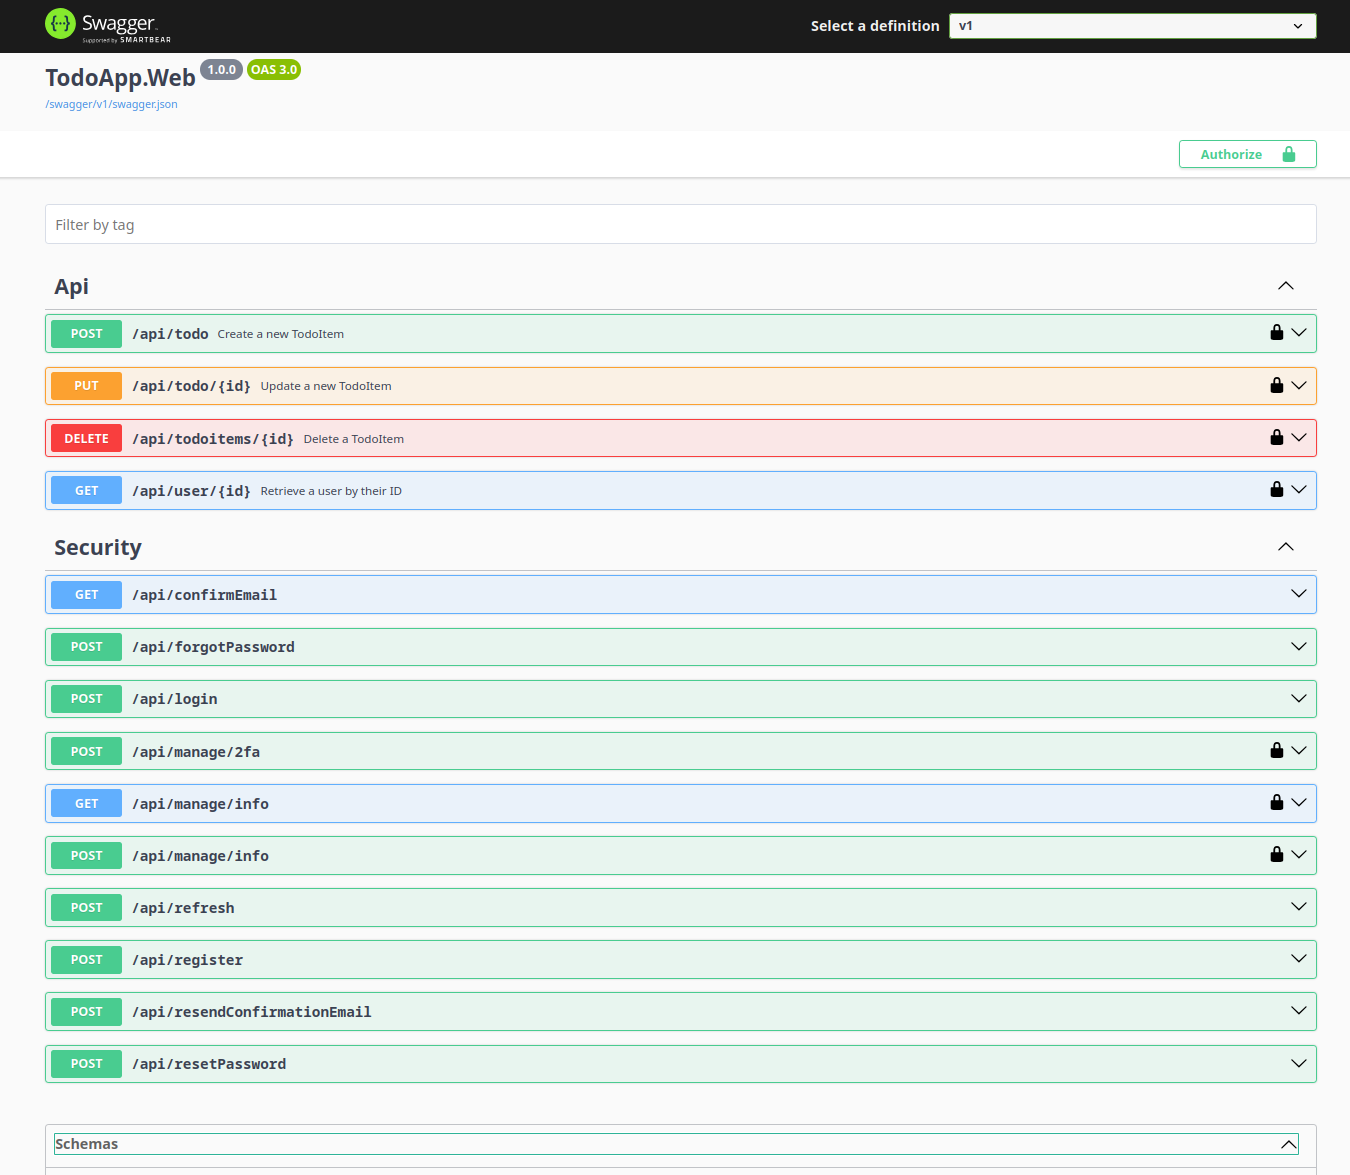
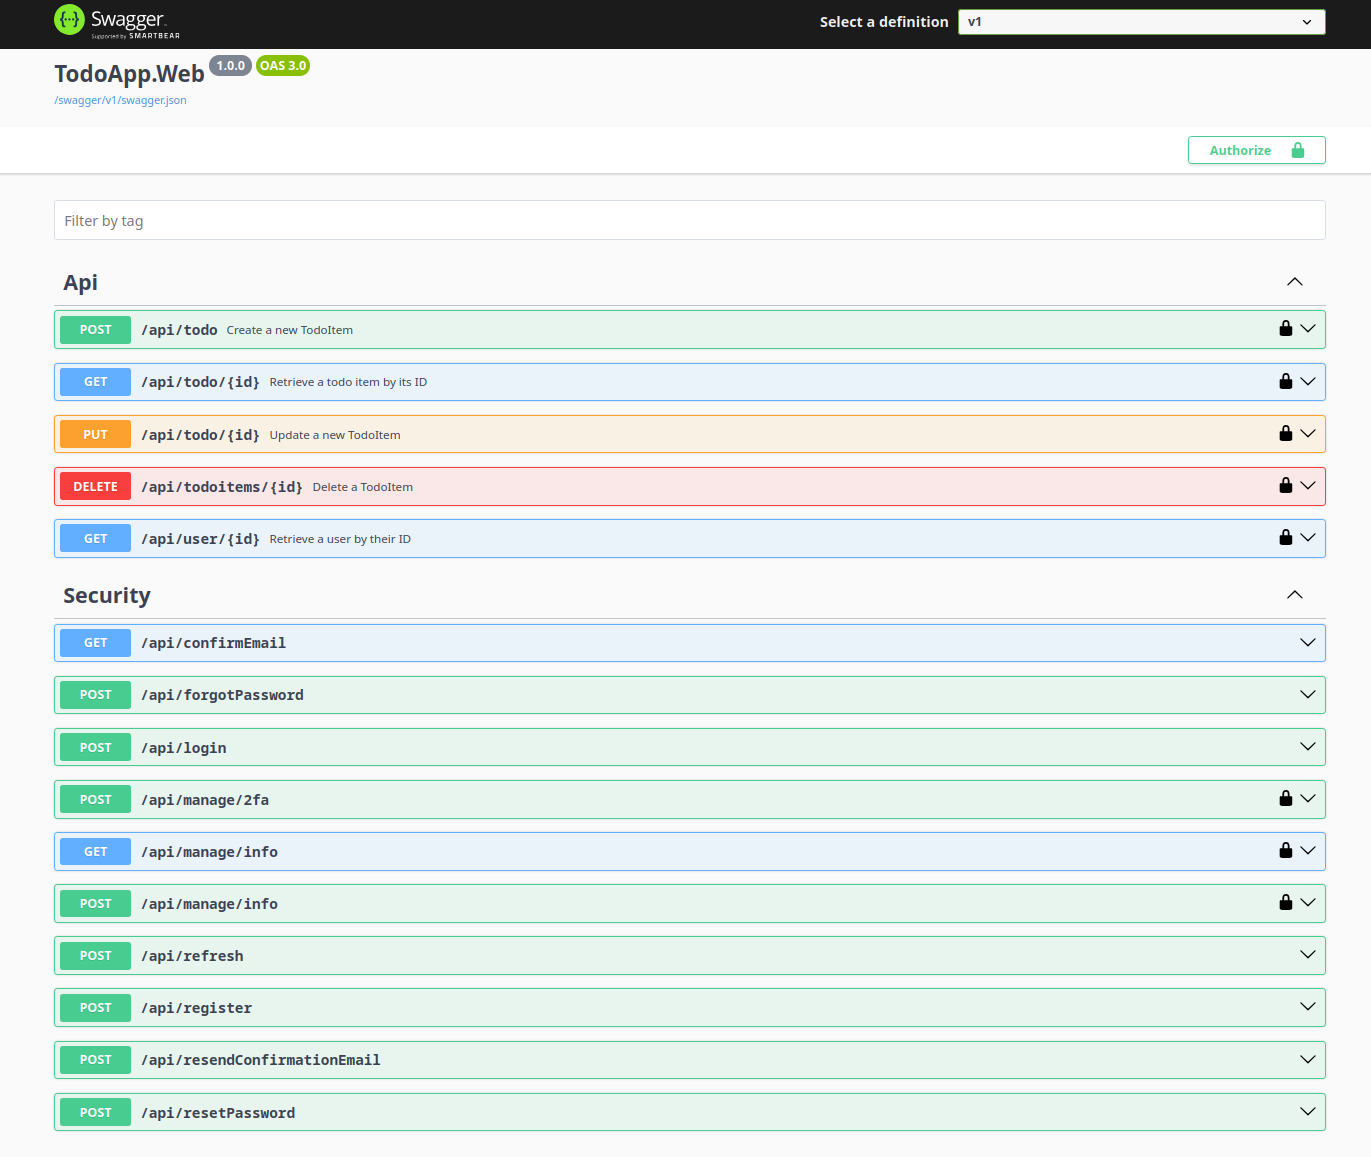
Added GetTodoItemById endpoint

Changed region(s): [[0.0311, 0.1867, 0.9644, 0.9957], [0.0, 0.0, 1.0, 0.0933], [0.8711, 0.1245, 0.9644, 0.1556]]

diff --git a/TodoApp.Web/Endpoints/TodoItems/GetTodoItemByIdEndpoint.cs b/TodoApp.Web/Endpoints/TodoItems/GetTodoItemByIdEndpoint.cs
@@ -1,0 +1,56 @@
+using FastEndpoints;
+using TodoApp.UseCases.DTOs;
+using TodoApp.Core.Entities;
+using Microsoft.AspNetCore.Identity;
+using TodoApp.UseCases.Interfaces;
+
+namespace TodoApp.Web.Endpoints.TodoItems;
+
+public class GetTodoItemByIdEndpoint : Endpoint<GetTodoItemByIdDTO, GetTodoItemByIdResponseDTO>
+{
+    private readonly ITodoItemRepository _todoItemRepository;
+    private readonly ILogger<GetTodoItemByIdEndpoint> _logger;
+
+    public GetTodoItemByIdEndpoint(ITodoItemRepository todoItemRepository, ILogger<GetTodoItemByIdEndpoint> logger)
+    {
+        _todoItemRepository = todoItemRepository;
+        _logger = logger;
+    }
+
+    public override void Configure()
+    {
+        Get("/api/todo/{@id}", r => new { r.Id });
+
+        Description(b => b.Produces(403));
+        Summary(s =>
+        {
+            s.Summary = "Retrieve a todo item by its ID";
+            s.Description = "The endpoint retrieves a todo item by its ID from the database";
+            s.ExampleRequest = new GetTodoItemByIdDTO
+            {
+                Id = 123,
+            };
+            s.ResponseExamples[200] = new GetTodoItemByIdResponseDTO
+            {
+                Id = 123,
+                Title = "Example Todo Item",
+                Description = "This is an example todo item",
+                IsCompleted = false
+            };
+        });
+    }
+
+    public override async Task HandleAsync(GetTodoItemByIdDTO req, CancellationToken ct)
+    {
+        var todoItem = await _todoItemRepository.GetByIdAsync(req);
+
+        if (todoItem == null)
+        {
+            AddError("Todo item not found");
+            await SendErrorsAsync(StatusCodes.Status404NotFound, ct);
+            return;
+        }
+
+        await SendAsync(todoItem, StatusCodes.Status200OK, ct);
+    }
+}

diff --git a/TodoApp.UseCases/Mappings/TodoItemMapping.cs b/TodoApp.UseCases/Mappings/TodoItemMapping.cs
@@ -8,14 +8,23 @@ public class TodoItemMapping : Profile
 {
     public TodoItemMapping()
     {
-        CreateMap<TodoItem, UpdateTodoItemDTO>();
-        CreateMap<TodoItem, CreateTodoItemResponseDTO>();
+        // Create
         CreateMap<TodoItem, CreateTodoItemDTO>();
-
-        CreateMap<CreateTodoItemResponseDTO, TodoItem>();
-        CreateMap<UpdateTodoItemDTO, TodoItem>();
         CreateMap<CreateTodoItemDTO, TodoItem>();
+        CreateMap<CreateTodoItemDTO, CreateTodoItemResponseDTO>();
+        CreateMap<CreateTodoItemResponseDTO, CreateTodoItemDTO>();
 
+        // Read
+        CreateMap<TodoItem, GetTodoItemByIdDTO>();
+        CreateMap<TodoItem, GetTodoItemByIdResponseDTO>(); // Add this mapping
+
+        CreateMap<GetTodoItemByIdDTO, TodoItem>();
+        CreateMap<GetTodoItemByIdDTO, GetTodoItemByIdResponseDTO>();
+        CreateMap<GetTodoItemByIdResponseDTO, GetTodoItemByIdDTO>();
+
+        // Update
+        CreateMap<TodoItem, UpdateTodoItemDTO>();
+        CreateMap<UpdateTodoItemDTO, TodoItem>();
         CreateMap<UpdateTodoItemDTO, UpdateTodoItemResponseDTO>();
         CreateMap<UpdateTodoItemResponseDTO, UpdateTodoItemDTO>();
 

diff --git a/TodoApp.Web/Endpoints/TodoItems/UpdateTodoItemEndpoint.cs b/TodoApp.Web/Endpoints/TodoItems/UpdateTodoItemEndpoint.cs
@@ -67,7 +67,8 @@ public class UpdateTodoItemEndpoint : Endpoint<UpdateTodoItemDTO, UpdateTodoItem
         }
 
         // Get the TodoItem by the ID
-        var todoItem = await _todoItemService.GetTodoItemByIdAsync(request.Id);
+        var todoItemDTO = new GetTodoItemByIdDTO { Id = request.Id };
+        var todoItem = await _todoItemService.GetTodoItemByIdAsync(todoItemDTO);
 
         _logger.LogInformation("TodoItem found: {0}", todoItem?.Id);
 
@@ -78,7 +79,7 @@ public class UpdateTodoItemEndpoint : Endpoint<UpdateTodoItemDTO, UpdateTodoItem
             return;
         }
 
-        // Update a the TodoItem
+        // Update the TodoItem
         var updatedTodoItem = new UpdateTodoItemDTO
         {
             Id = todoItem.Id,

diff --git a/TodoApp.Infrastructure/Repositories/TodoItemRepository.cs b/TodoApp.Infrastructure/Repositories/TodoItemRepository.cs
@@ -18,9 +18,15 @@ public class TodoItemRepository : ITodoItemRepository
         _mapper = mapper;
     }
 
-    public async Task<TodoItem?> GetByIdAsync(int id)
+    public async Task<GetTodoItemByIdResponseDTO?> GetByIdAsync(GetTodoItemByIdDTO item)
     {
-        return await _context.TodoItems.FindAsync(id);
+        var todoItem = await _context.TodoItems.FindAsync(item.Id);
+        if (todoItem == null)
+        {
+            return null;
+        }
+
+        return _mapper.Map<GetTodoItemByIdResponseDTO>(todoItem);
     }
 
     public async Task<IEnumerable<TodoItem>> GetAllAsync()

diff --git a/TodoApp.UseCases/Services/TodoItemService.cs b/TodoApp.UseCases/Services/TodoItemService.cs
@@ -23,9 +23,9 @@ public class TodoItemService
         return await _todoItemRepository.GetAllAsync();
     }
 
-    public async Task<TodoItem> GetTodoItemByIdAsync(int id)
+    public async Task<GetTodoItemByIdResponseDTO?> GetTodoItemByIdAsync(GetTodoItemByIdDTO todoItem)
     {
-        return await _todoItemRepository.GetByIdAsync(id);
+        return await _todoItemRepository.GetByIdAsync(todoItem);
     }
 
     public async Task<CreateTodoItemResponseDTO> AddTodoItemAsync(CreateTodoItemDTO todoItem)

diff --git a/TodoApp.UseCases/Interfaces/ITodoItemRepository.cs b/TodoApp.UseCases/Interfaces/ITodoItemRepository.cs
@@ -9,8 +9,8 @@ namespace TodoApp.UseCases.Interfaces;
 
 public interface ITodoItemRepository
 {
-    Task<TodoItem?> GetByIdAsync(int id);
     Task<IEnumerable<TodoItem>> GetAllAsync();
+    Task<GetTodoItemByIdResponseDTO?> GetByIdAsync(GetTodoItemByIdDTO item);
     Task<CreateTodoItemResponseDTO> AddAsync(CreateTodoItemDTO item);
     Task<UpdateTodoItemResponseDTO?> UpdateAsync(UpdateTodoItemDTO item);
     Task<DeleteTodoItemResponseDTO?> DeleteAsync(DeleteTodoItemDTO item);

diff --git a/TodoApp.UseCases/DTOs/GetTodoItemByIdResponseDTO.cs b/TodoApp.UseCases/DTOs/GetTodoItemByIdResponseDTO.cs
@@ -1,0 +1,12 @@
+namespace TodoApp.UseCases.DTOs;
+
+public class GetTodoItemByIdResponseDTO
+{
+    public int Id { get; set; }
+    public string Title { get; set; } = string.Empty;
+    public string Description { get; set; } = string.Empty;
+    public bool IsCompleted { get; set; }
+
+    // Foreign Key for the User who owns this TodoItem
+    public string UserId { get; set; } = string.Empty;
+}

diff --git a/TodoApp.UseCases/DTOs/GetTodoItemByIdDTO.cs b/TodoApp.UseCases/DTOs/GetTodoItemByIdDTO.cs
@@ -1,0 +1,7 @@
+namespace TodoApp.UseCases.DTOs;
+
+public class GetTodoItemByIdDTO
+{
+    public int Id { get; set; }
+}
+
